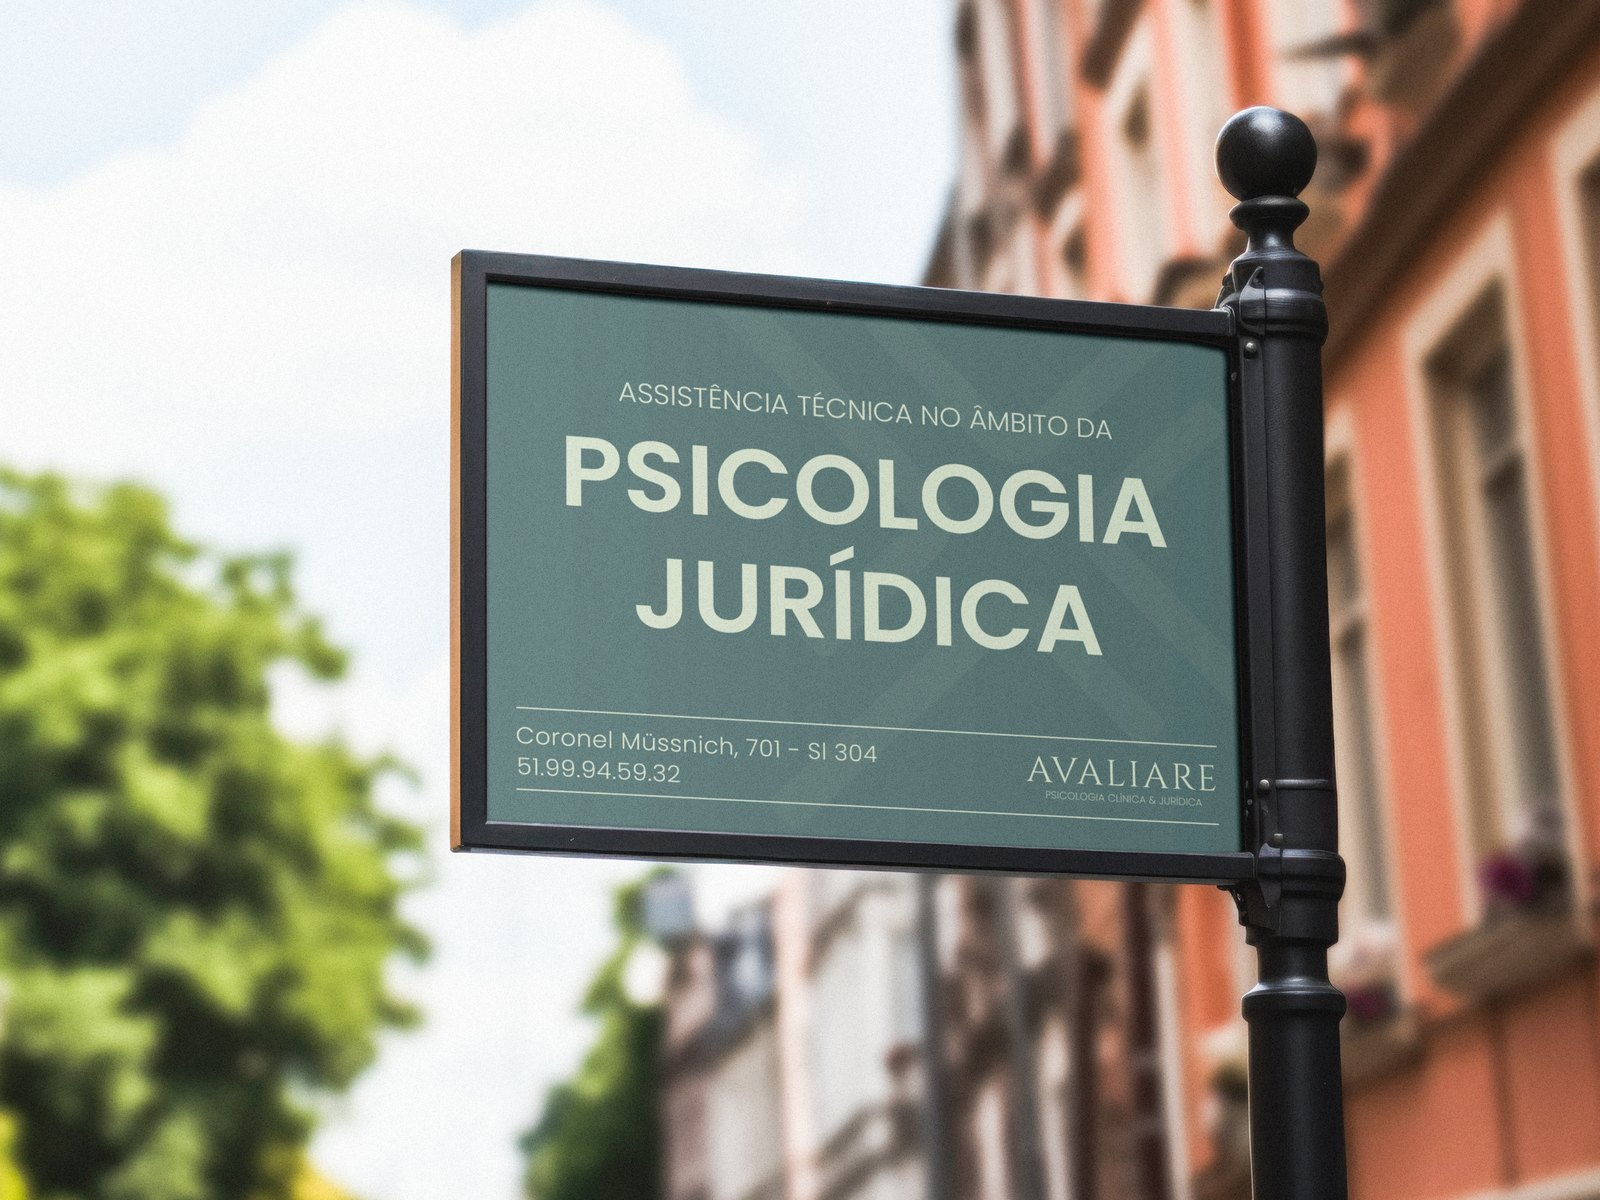
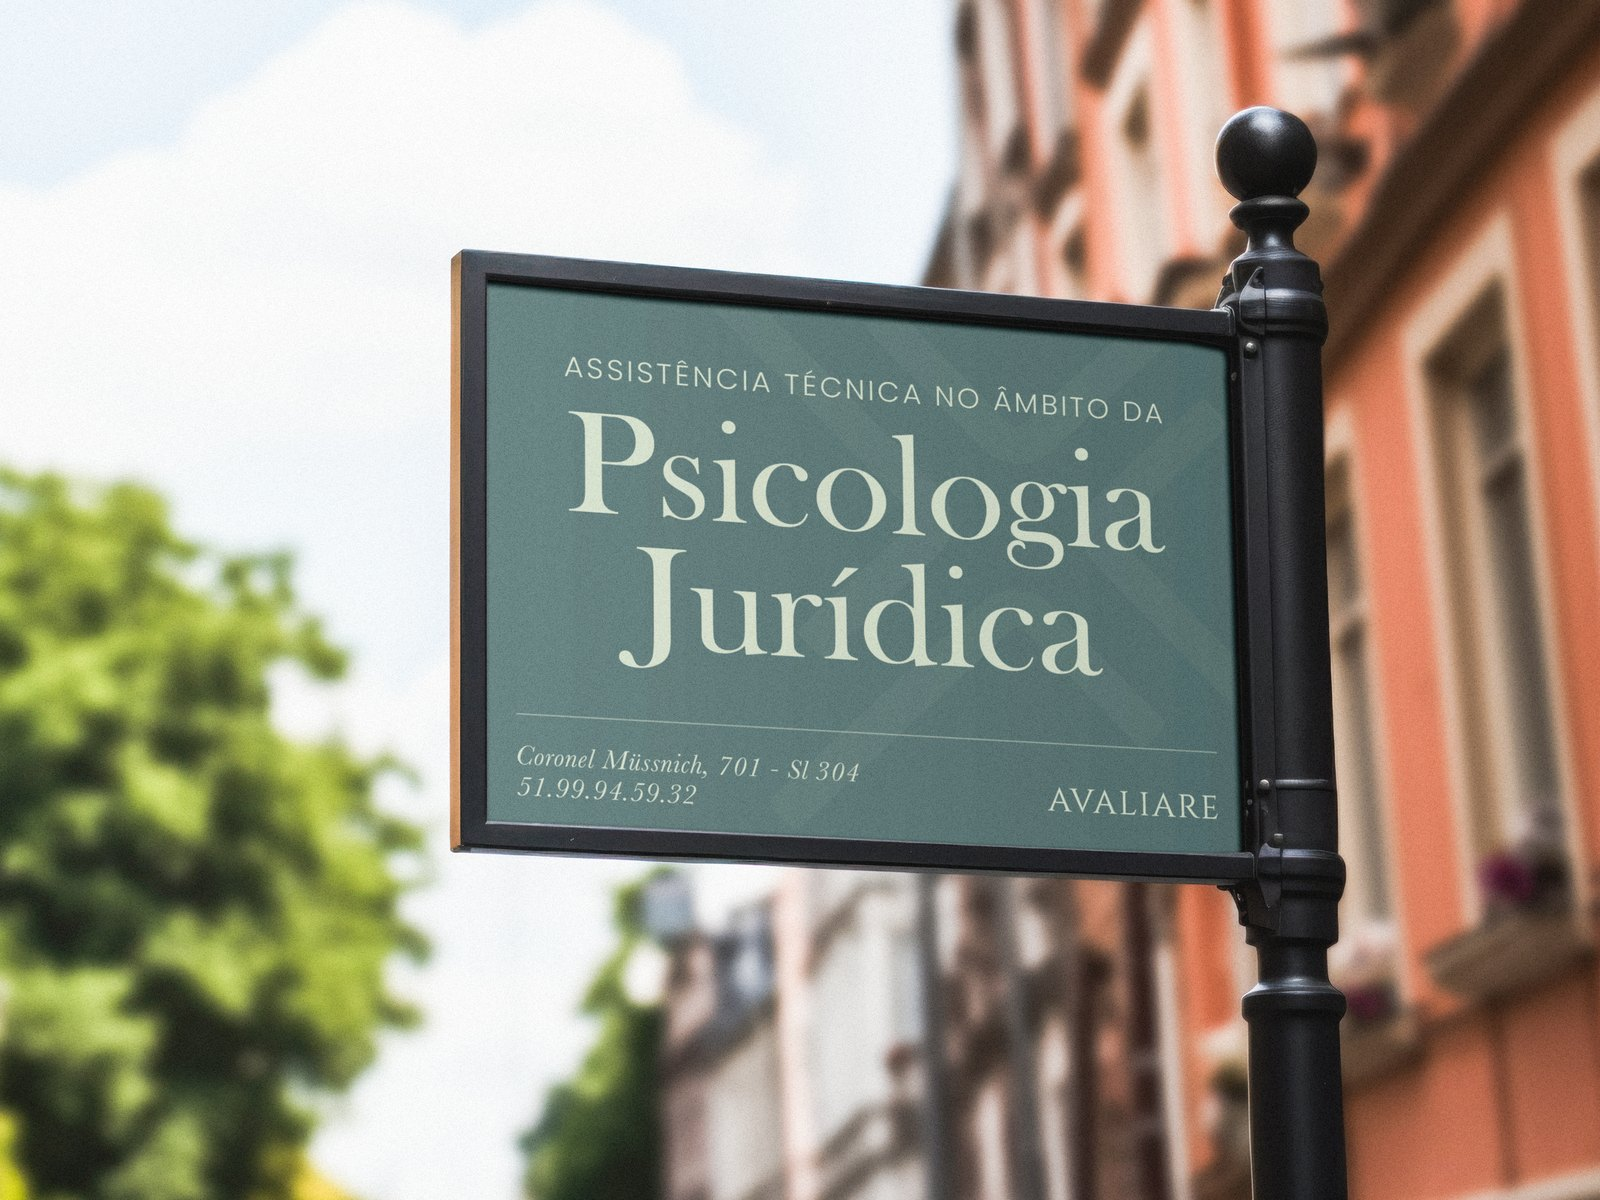
Avaliare: update street sign mockup, add folder mockup
Claude-Session: https://claude.ai/code/session_012oqaX55eH2CxwQScpfaXXE

Changed region(s): [[0.3438, 0.3083, 0.75, 0.5858], [0.3125, 0.5858, 0.5625, 0.6783], [0.625, 0.6167, 0.7812, 0.6783]]

diff --git a/index.html b/index.html
@@ -479,7 +479,7 @@ const PROJECTS = [
       "The main goal of the brand is to convey transparency, clarity and professionalism, making it a kind of blank sheet waiting to be filled with content. The symbol is built from check marks that express confidence in the success of each assessment, arranged so they form open paths to be followed."
     ],
     thumb: "media/avaliare/thumb.jpg", cover: "media/avaliare/06.jpg",
-    images: ["01","02","03","04","05","07"].map(n => `media/avaliare/${n}.jpg`) },
+    images: ["01","02","03","04","05","07","08"].map(n => `media/avaliare/${n}.jpg?v=2`) },
   { slug: "shadows-of-asgard", title: "Shadows of Asgard",
     summary: "Visual identity for a gaming clan of long-time friends, built on the concept of an e-sports team.",
     services: "Brand Identity, Graphic Design", industry: "Gaming & E-sports", year: "2024", country: "Brazil",
